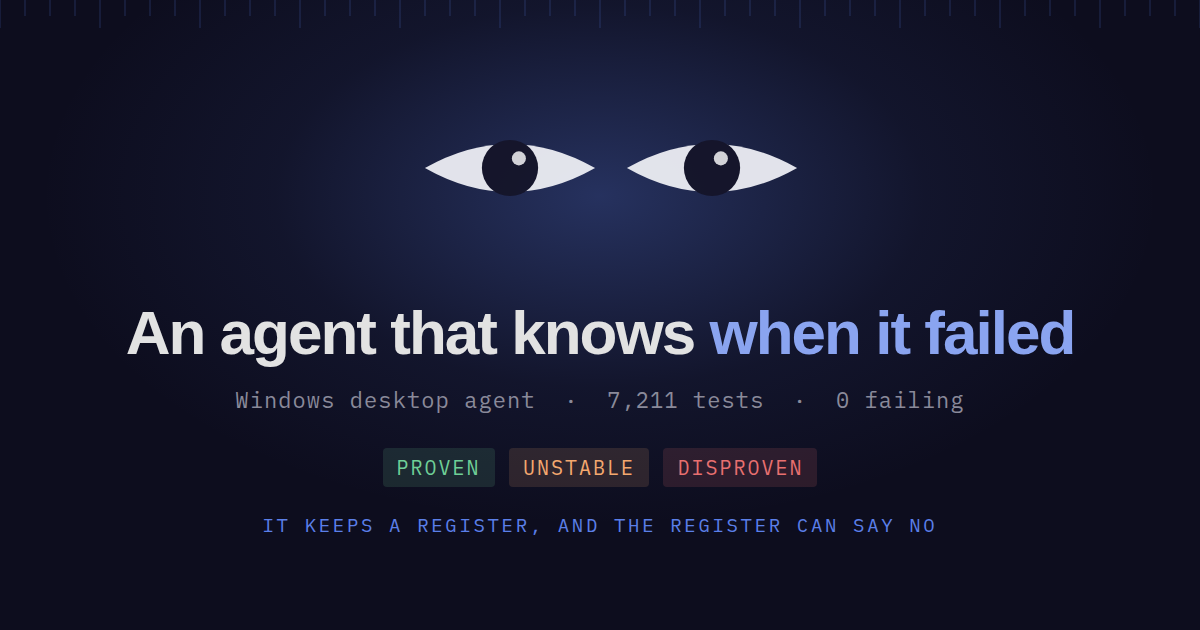
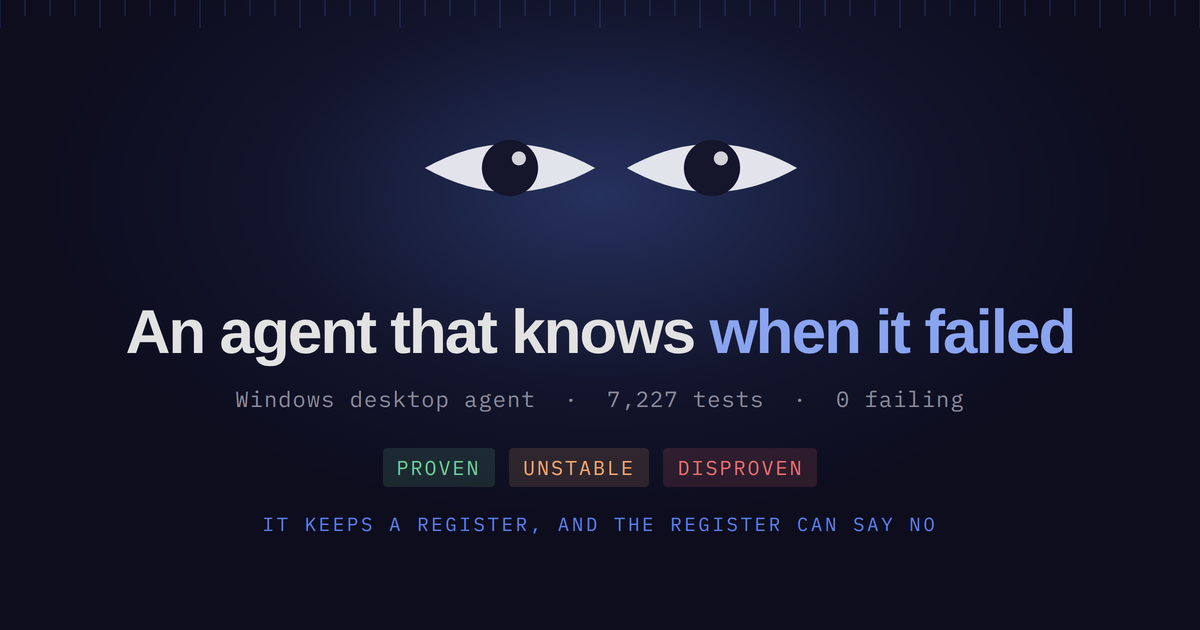
7,227 tests, 52 closure checks

diff --git a/index.html b/index.html
@@ -135,7 +135,7 @@ a{color:var(--acento2)}
 <p class="sub">Desktop AI agents don't fail at clicking. They fail at not noticing. <b>Eyes</b> is a Windows agent that verifies the effect of every action, keeps a register of what it has actually demonstrated per application, and <b>refuses to claim the rest</b>.</p>
 <div class="acciones"><a class="btn btn-p" href="#partnership">Partnership enquiries</a><a class="btn btn-s" href="#hace">What it does today</a></div>
 </div></div>
-<div class="env"><div class="cifras"><div><div class="v">7,211</div><div class="k">tests passing</div></div><div><div class="v">0</div><div class="k">tests failing</div></div><div><div class="v">367</div><div class="k">test files</div></div><div><div class="v">212</div><div class="k">modules</div></div><div><div class="v">50</div><div class="k">closure checks</div></div><div><div class="v">3</div><div class="k">months, one person</div></div></div></div>
+<div class="env"><div class="cifras"><div><div class="v">7,227</div><div class="k">tests passing</div></div><div><div class="v">0</div><div class="k">tests failing</div></div><div><div class="v">367</div><div class="k">test files</div></div><div><div class="v">212</div><div class="k">modules</div></div><div><div class="v">52</div><div class="k">closure checks</div></div><div><div class="v">3</div><div class="k">months, one person</div></div></div></div>
 <section id="hace"><div class="env"><div class="eyebrow">What it does today</div><h2>Eight things, all of them running</h2><p class="intro">Not a roadmap. Every item below is exercised by the test suite and demonstrable on the machine it was built on.</p><div class="rejilla">
 <div class="tarj"><span class="marca">Escritorio</span><h3>It drives Windows, not an API</h3><p>Opens apps, types, clicks, navigates, reads the screen. Word, Excel, PowerPoint and Outlook through COM; LibreOffice through UNO when Office isn't there. The browser through CDP. No RPA recorder, no brittle coordinates.</p></div>
 <div class="tarj"><span class="marca">Verificación</span><h3>Every action is checked against the world</h3><p>A universal oracle reads the effect of an action — object state, then UI tree, then pixels — and a step is only closed when the effect is confirmed. A sentence is not evidence; a file on disk is.</p></div>

diff --git a/README.md b/README.md
@@ -34,11 +34,11 @@ it has actually demonstrated *per application*, and refuses to claim the rest.
 
 | | |
 |---:|:---|
-| **7,211** | tests passing |
+| **7,227** | tests passing |
 | **0** | tests failing |
 | **367** | test files |
 | **212** | modules |
-| **50** | closure checks (static, 35 s) |
+| **52** | closure checks (static, 35 s) |
 | **3 months** | one person, 312 commits |
 
 <sub>Measured on 25 · 08 · 2026 on the machine Eyes was built on. Not extrapolated.</sub>
